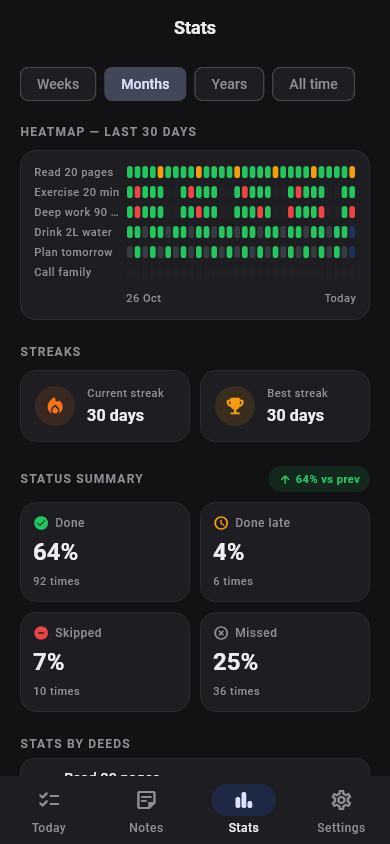
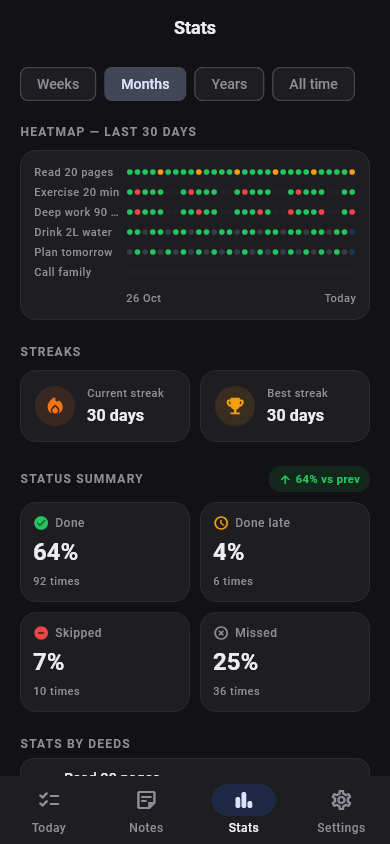
v1.3.1 bugfix: close menus instantly on action, fix note editor double-pop, square heatmap cells, reminder sync after screen close

Changed region(s): [[0.3077, 0.1848, 0.9231, 0.3081]]

diff --git a/lib/features/today/today_screen.dart b/lib/features/today/today_screen.dart
@@ -300,8 +300,8 @@ class TodayScreen extends ConsumerWidget {
                 label: 'Done on time',
                 selected: existing?.status == LogStatus.done.dbValue,
                 onTap: () async {
+                  Navigator.of(sheetContext).pop();
                   await repository.setLog(deed.id, day, LogStatus.done);
-                  if (sheetContext.mounted) Navigator.pop(sheetContext);
                   HapticFeedback.mediumImpact();
                   if (context.mounted) {
                     _snack(
@@ -318,8 +318,8 @@ class TodayScreen extends ConsumerWidget {
                 label: 'Done late',
                 selected: existing?.status == LogStatus.late.dbValue,
                 onTap: () async {
+                  Navigator.of(sheetContext).pop();
                   await repository.setLog(deed.id, day, LogStatus.late);
-                  if (sheetContext.mounted) Navigator.pop(sheetContext);
                   if (context.mounted) {
                     _snack(
                       context,
@@ -335,7 +335,7 @@ class TodayScreen extends ConsumerWidget {
                 label: 'Skipped',
                 selected: existing?.status == LogStatus.skipped.dbValue,
                 onTap: () async {
-                  Navigator.pop(sheetContext);
+                  Navigator.of(sheetContext).pop();
                   String? reason;
                   if (deed.reasonsEnabled) {
                     reason = await _askReason(context);
@@ -374,8 +374,8 @@ class TodayScreen extends ConsumerWidget {
                   selected: false,
                   onTap: () async {
                     final previous = existing;
+                    Navigator.of(sheetContext).pop();
                     await repository.clearLog(deed.id, day);
-                    if (sheetContext.mounted) Navigator.pop(sheetContext);
                     if (context.mounted) {
                       _snack(
                         context,

diff --git a/lib/features/stats/stats_screen.dart b/lib/features/stats/stats_screen.dart
@@ -332,14 +332,17 @@ class _Heatmap extends StatelessWidget {
                     return Expanded(
                       child: Padding(
                         padding: const EdgeInsets.all(1),
+                        child: AspectRatio(
+                        aspectRatio: 1,
                         child: Container(
-                          height: 12,
                           decoration: BoxDecoration(
                             color: color ??
-                                theme.colorScheme.outline.withValues(alpha: 0.18),
+                                theme.colorScheme.outline
+                                    .withValues(alpha: 0.18),
                             borderRadius: BorderRadius.circular(3),
                           ),
                         ),
+                      ),
                       ),
                     );
                   }).toList(),

diff --git a/lib/features/deeds/create_deed_screen.dart b/lib/features/deeds/create_deed_screen.dart
@@ -1,3 +1,5 @@
+import 'dart:async';
+
 import 'package:drift/drift.dart' show Value;
 import 'package:flutter_riverpod/flutter_riverpod.dart';
 import 'package:go_router/go_router.dart';
@@ -132,10 +134,11 @@ class _CreateDeedScreenState extends ConsumerState<CreateDeedScreen> {
       await repository.updateDeed(_existing!, companion);
     }
 
-    final deeds = await repository.allDeeds();
-    await ref.read(notificationServiceProvider).syncAll(deeds);
-
+    // Close first, then refresh reminders in the background.
+    final notifications = ref.read(notificationServiceProvider);
     if (mounted) context.pop();
+    final deeds = await repository.allDeeds();
+    unawaited(notifications.syncAll(deeds));
   }
 
   Future<void> _addCategory() async {

diff --git a/lib/features/deeds/deed_detail_screen.dart b/lib/features/deeds/deed_detail_screen.dart
@@ -306,7 +306,7 @@ class _SingleDeedHeatmap extends StatelessWidget {
               child: Padding(
                 padding: const EdgeInsets.all(1.5),
                 child: AspectRatio(
-                  aspectRatio: 0.8,
+                  aspectRatio: 1,
                   child: Container(
                     decoration: BoxDecoration(
                       color: color ??

diff --git a/lib/features/notes/note_editor_screen.dart b/lib/features/notes/note_editor_screen.dart
@@ -101,7 +101,8 @@ class _NoteEditorScreenState extends ConsumerState<NoteEditorScreen> {
   }
 
   Future<void> _exit() async {
-    await _save();
+    // Save without popping here — this method owns the single pop.
+    await _save(popAfter: false);
     if (mounted) context.pop();
   }
 
